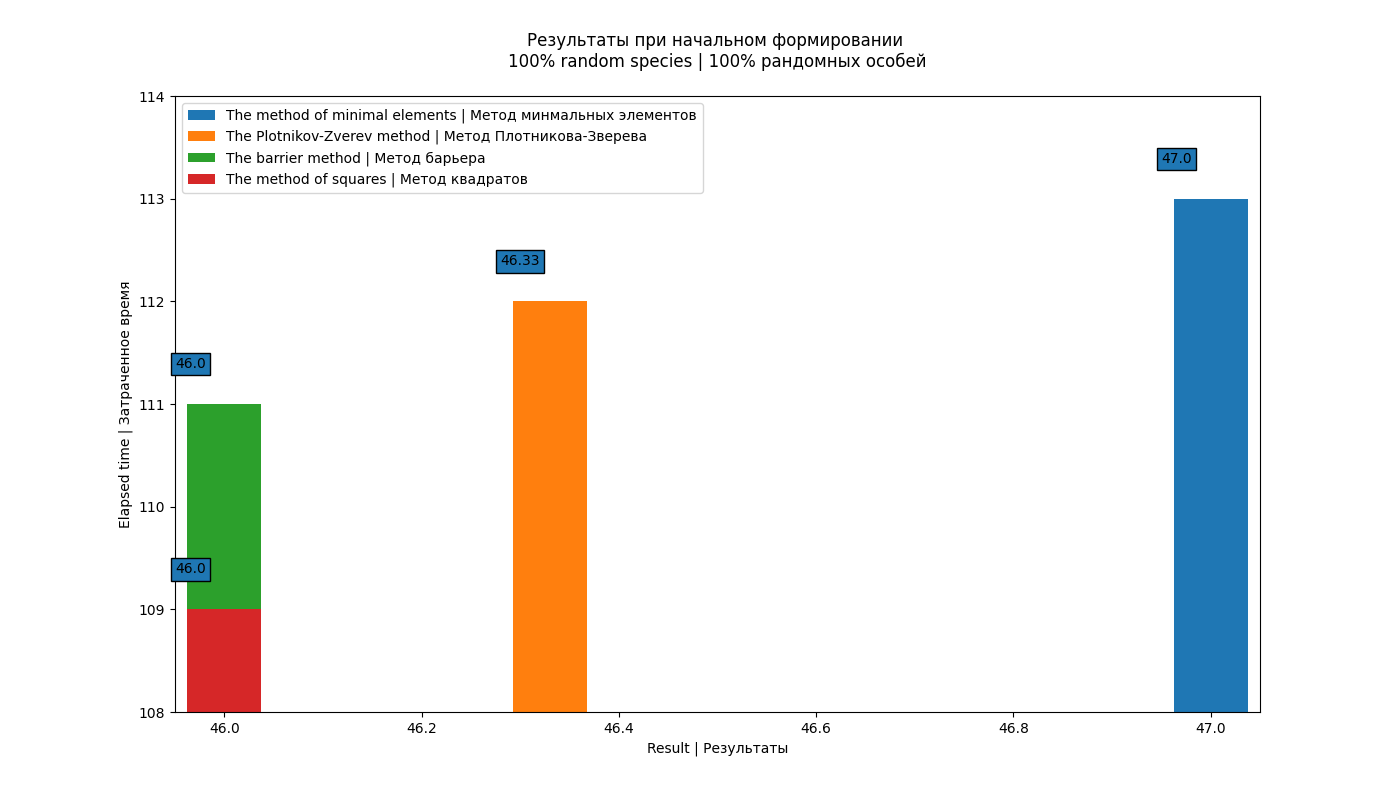
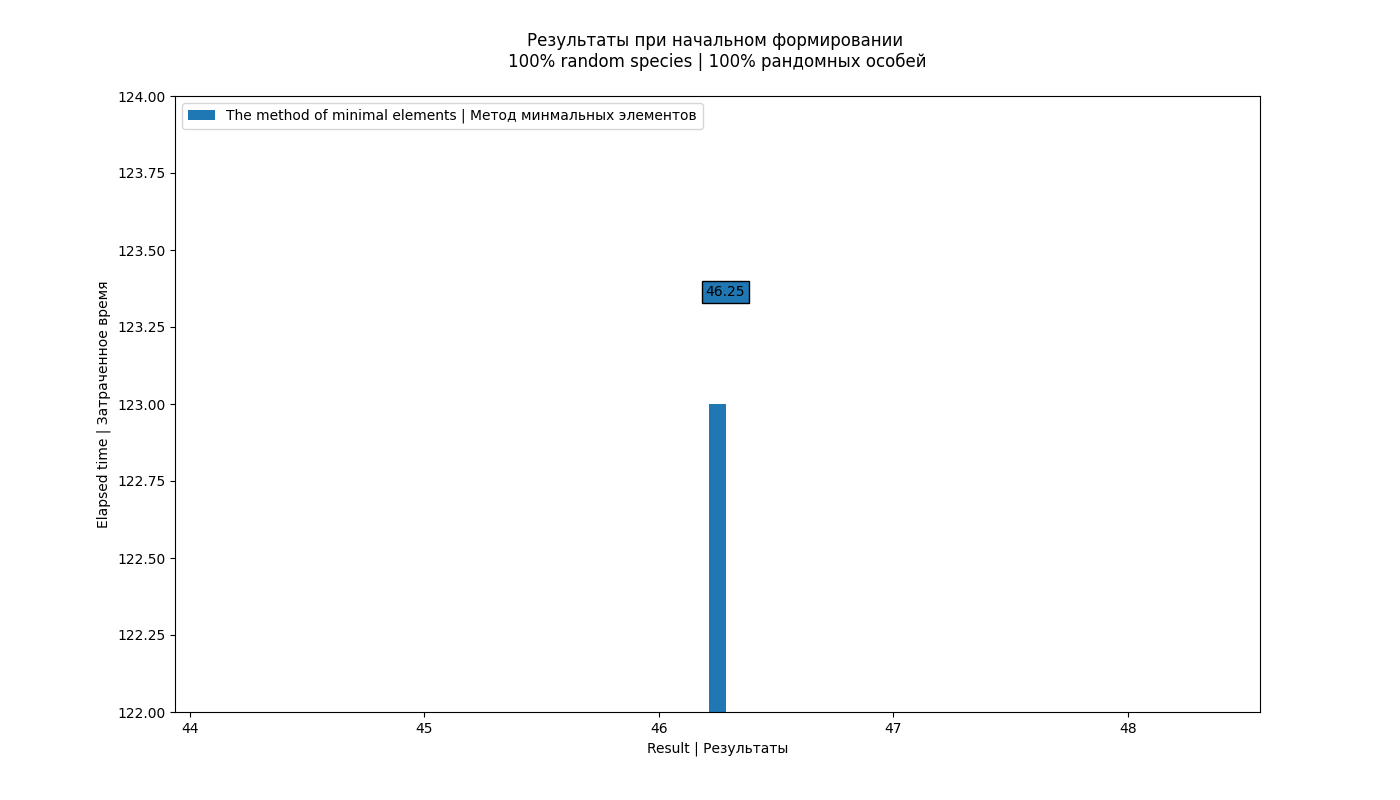
Histogram visualization update

diff --git a/diploma/experiments/visualizing_histogram.py b/diploma/experiments/visualizing_histogram.py
@@ -28,32 +28,40 @@ for i, elem in enumerate(elapsed_time):
     elapsed_time[i] = min * 60 + secs
 
 # Сортировка для того чтоб графики не наслаивались:
-elapsed_index_sorted = sorted([(elapsed_time[i], i) for i in range(len(elapsed_time))], key=lambda x: x[0], reverse=True)
-new_data, new_elapsed, new_str_methods = [], [], []
-for i in range(len(elapsed_index_sorted)):
-    index = elapsed_index_sorted[i][1]
-    new_elapsed.append(elapsed_index_sorted[i][0])
-    new_data.append(data[index])
-    new_str_methods.append(str_methods[index])
-
+if way_of_forming != '100% random species | 100% рандомных особей\n':
+    elapsed_index_sorted = sorted([(elapsed_time[i], i) for i in range(len(elapsed_time))], key=lambda x: x[0], reverse=True)
+    new_data, new_elapsed, new_str_methods = [], [], []
+    for i in range(len(elapsed_index_sorted)):
+        index = elapsed_index_sorted[i][1]
+        new_elapsed.append(elapsed_index_sorted[i][0])
+        new_data.append(data[index])
+        new_str_methods.append(str_methods[index])
 
 fig, ax = plt.subplots()
 fig.set_size_inches(14, 8)
 fig.canvas.set_window_title('Result')
-f1, f2, f3, f4 = [ax.bar(x, y, label=z, width=0.075 + (data[-1] - data[0]) / 20) for x, y, z in zip(new_data, new_elapsed, new_str_methods)]
+if way_of_forming != '100% random species | 100% рандомных особей\n':
+    f1, f2, f3, f4 = [ax.bar(x, y, label=z, width=0.075 + (data[-1] - data[0]) / 20) for x, y, z in zip(new_data, new_elapsed, new_str_methods)]
+    [plt.text(x - 0.05, y + 0.35, x, bbox=dict(boxstyle="square")) for x, y in zip(new_data, new_elapsed)]
+else:
+    f = ax.bar(data[0], elapsed_time[0], label=str_methods[0], width=0.075 + (data[-1] - data[0]) / 20)
+    [plt.text(x - 0.05, y + 0.35, x, bbox=dict(boxstyle="square")) for x, y in zip(data, elapsed_time)]
+
 if str_methods[3] == "The method of minimal elements | Метод минмальных элементов":
     ax.legend(loc='upper right')
 else:
     ax.legend(loc='upper left')
+
 plt.title(f'Результаты при начальном формировании \n{way_of_forming}')
 # plt.xticks(data, data)
 plt.xlabel('Result | Результаты')
-[plt.text(x - 0.05, y + 0.35, x, bbox=dict(boxstyle="square")) for x, y in zip(new_data, new_elapsed)]
+plt.ylabel('Elapsed time | Затраченное время')
+
 elapsed_time = sorted(elapsed_time)
 data = sorted(data)
 plt.xlim(left=data[0] - (data[-1] - data[0]) / 20, right=data[-1] + (data[-1] - data[0]) / 20) # 0.05
 plt.ylim(bottom=elapsed_time[0] - 1, top=elapsed_time[-1] + 1)
-plt.ylabel('Elapsed time | Затраченное время')
+
 if way_of_forming == '100% random species | 100% рандомных особей\n':
     plt.savefig("histograms/Result_100r")
 elif way_of_forming == '50% random + 50% determinate species | 50% рандомно + 50% детерминированных особей\n':

diff --git a/diploma/experiments/experiments.py b/diploma/experiments/experiments.py
@@ -234,6 +234,8 @@ print(f"Performing a study based on {repeat_str} iterations | Выполняем
 # Генерация особей и последующее выполнение ГА
 for method, method_str in zip(methods, methods_strs):
     # Открываем файл для записи:
+    if create_way == 0:
+        method_str = "Random formation"
     txt_file = f'experiments/methods_data/{method_str}_analysis.txt'
     f = open(txt_file, 'w', encoding="utf-8")
     with tqdm(range(repeat), ncols=100, desc=f"{method_str}") as t:
@@ -346,8 +348,12 @@ for method, method_str in zip(methods, methods_strs):
             all_repeats_result = [int(elem) for elem in f.readline().split()]
             results.append(Fore.YELLOW + str(sum(all_repeats_result) / len(all_repeats_result)) + Style.RESET_ALL)
         work_time.append(Fore.GREEN + str(t.format_interval(t.format_dict['elapsed'])) + Style.RESET_ALL)
+        if create_way == 0:
+            break
         time.sleep(2)
 for iter_method, elapsed_time, result, show_method in zip(str_methods, work_time, results, methods):
+    if create_way == 0:
+        iter_method = "Random formation method | Метод рандомного формирования:"
     print(f"\n{iter_method}\nElapsed time | Время работы: {elapsed_time}\nResult | Результат: {result}")
     result_file.write(f"\n{iter_method[5:-4]}\nElapsed time | Время работы: {elapsed_time[5:-4]}\nResult | Результат: {result[5:-4]}\n")
     for row in show_method:
